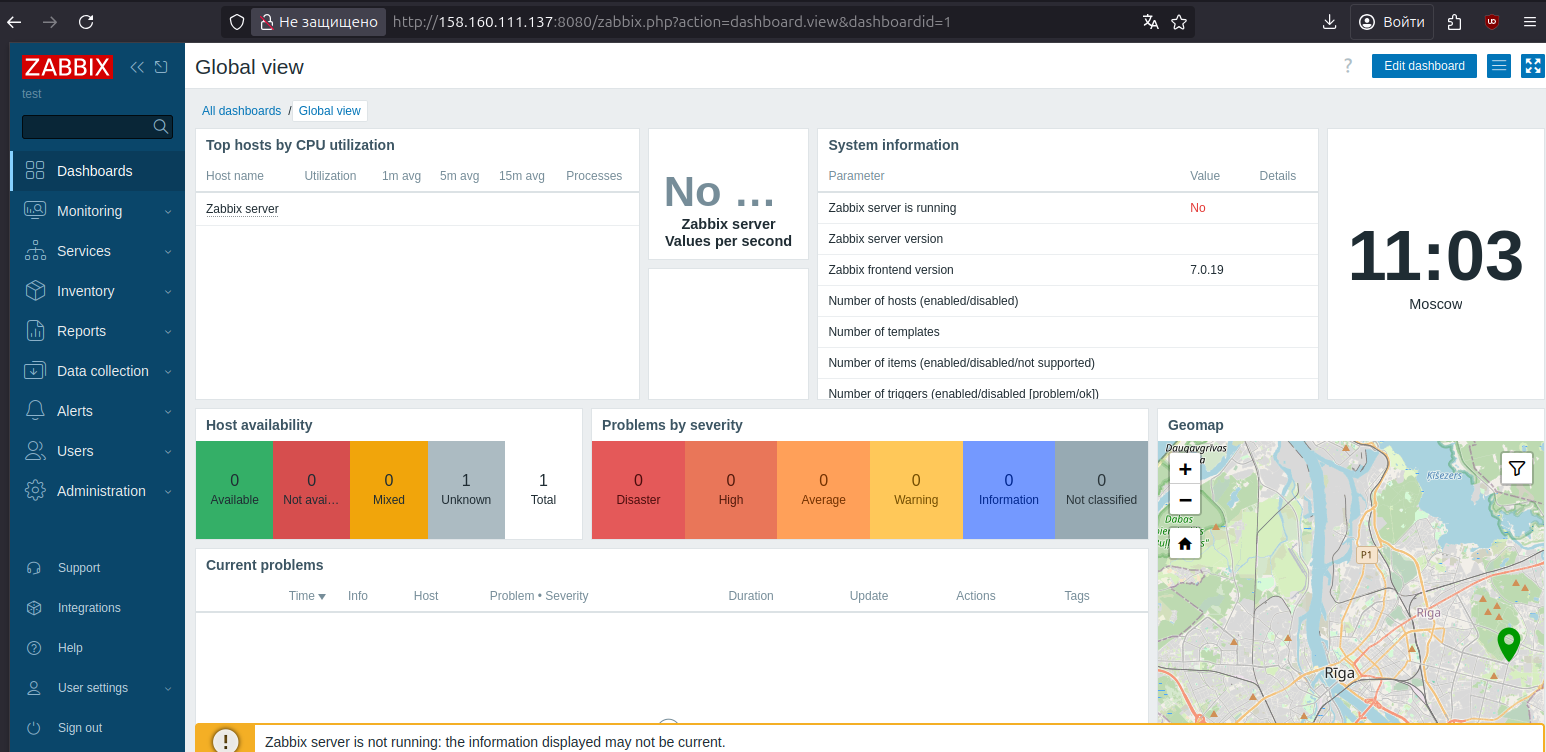
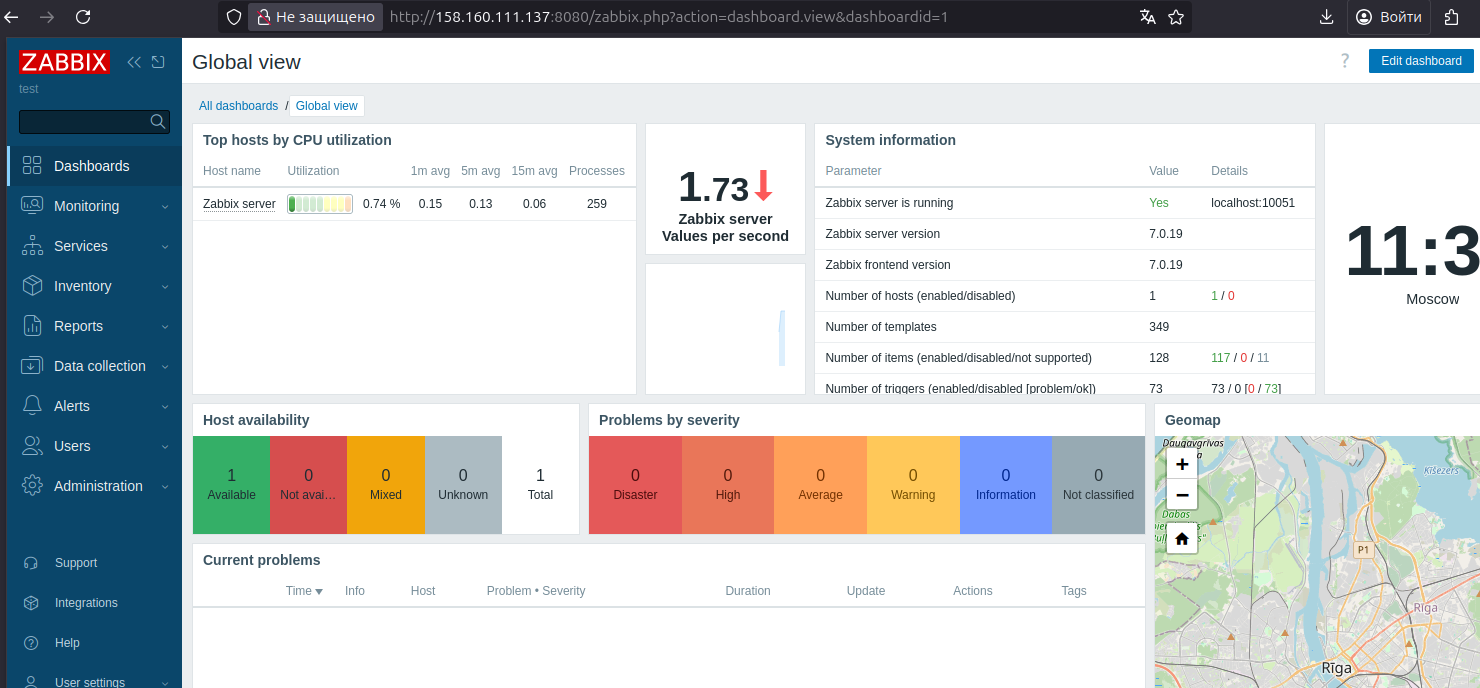
Добавлено задание 2

diff --git a/hw-02(monitoring)/README.md b/hw-02(monitoring)/README.md
@@ -32,3 +32,31 @@
 # zcat /usr/share/zabbix-sql-scripts/postgresql/server.sql.gz | sudo -u zabbix psql zabbix
 # systemctl restart zabbix-server zabbix-agent nginx php8.3-fpm
 # systemctl enable zabbix-server zabbix-agent nginx php8.3-fpm
+
+
+
+Задание 2
+
+Установите Zabbix Agent на два хоста.
+Процесс выполнения
+
+    Выполняя ДЗ, сверяйтесь с процессом отражённым в записи лекции.
+    Установите Zabbix Agent на 2 вирт.машины, одной из них может быть ваш Zabbix Server.
+    Добавьте Zabbix Server в список разрешенных серверов ваших Zabbix Agentов.
+    Добавьте Zabbix Agentов в раздел Configuration > Hosts вашего Zabbix Servera.
+    Проверьте, что в разделе Latest Data начали появляться данные с добавленных агентов.
+
+Требования к результатам
+
+    Приложите в файл README.md скриншот раздела Configuration > Hosts, где видно, что агенты подключены к серверу
+    Приложите в файл README.md скриншот лога zabbix agent, где видно, что он работает с сервером
+    Приложите в файл README.md скриншот раздела Monitoring > Latest data для обоих хостов, где видны поступающие от агентов данные.
+    Приложите в файл README.md текст использованных команд в GitHub
+
+
+# wget https://repo.zabbix.com/zabbix/7.0/ubuntu/pool/main/z/zabbix-release/zabbix-release_latest_7.0+ubuntu24.04_all.deb
+# dpkg -i zabbix-release_latest_7.0+ubuntu24.04_all.deb
+# apt update 
+# apt install zabbix-agent
+# systemctl restart zabbix-agent
+# systemctl enable zabbix-agent 
